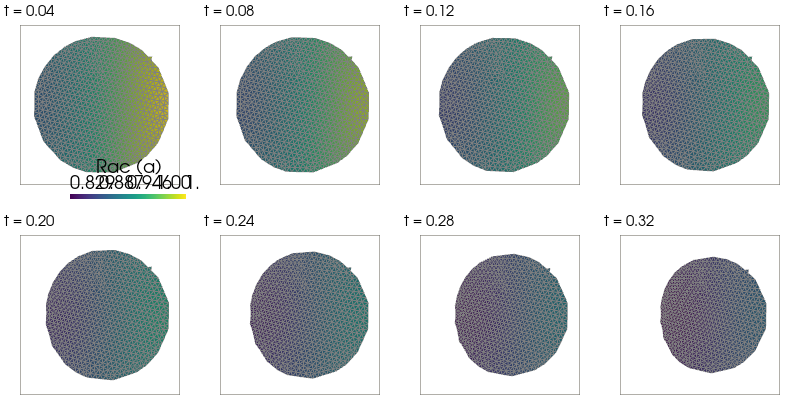
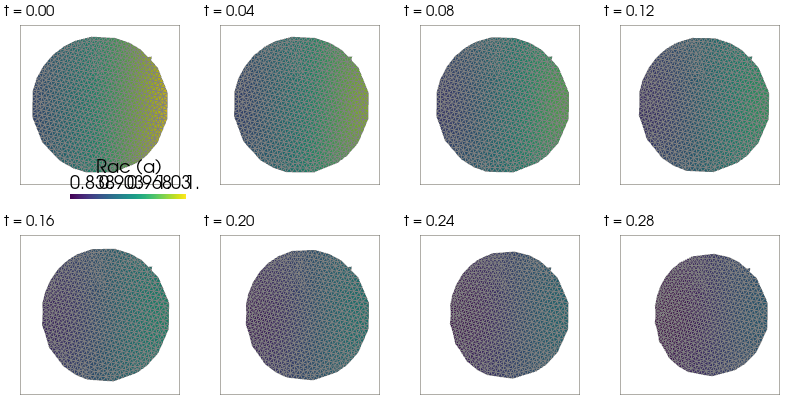
Tile from t=0 (initial cell) and drop the final frame
The tiled sequence now opens on the undeformed cell with its polarized initial Rac
(t=0.00) and ends at t=0.28 — the directed-migration window, before the GTPase
homogenises — instead of starting after the first move.

diff --git a/cross_validation/racrho_moving_boundary.py b/cross_validation/racrho_moving_boundary.py
@@ -96,9 +96,17 @@ def main() -> None:
     rac_space, rac_dofs = problem.unknown.function_space.sub(0).collapse()
     rac_x = rac_space.tabulate_dof_coordinates()[:, 0]
 
+    frames: list[tuple[pyvista.UnstructuredGrid, float]] = []
+
+    def capture(t: float) -> None:
+        field = problem.unknown.sub(0).collapse()
+        field.name = _FIELD
+        frames.append((_function_to_pyvista(field), t))
+
+    capture(0.0)  # the initial (undeformed) cell with its polarized IC, before any motion
+
     print(f"  membrane velocity v = {_MOTION_GAIN}·(a−1)|a−1|·n̂   (protrude where a>1, retract where a<1)\n")
     print(f"  {'t':>5} {'front +x':>10} {'back −x':>10} {'a @front':>9} {'a @back':>9}")
-    frames: list[tuple[pyvista.UnstructuredGrid, float]] = []
     for step in range(_STEPS):
         integrate_discrete_problem(problem, t_final=_INTERVAL, dt_initial=1.0e-4)  # MOL — nonlinear GTPase
         _advance_ale_mesh(cell, velocity, _INTERVAL)  # move boundary by interval·v(a), harmonic interior
@@ -110,16 +118,14 @@ def main() -> None:
             f"{float(rac_values[rac_x > 0.5].mean()):9.3f} {float(rac_values[rac_x < -0.5].mean()):9.3f}"
         )
         if step % _FRAME_EVERY == _FRAME_EVERY - 1:
-            field = problem.unknown.sub(0).collapse()
-            field.name = _FIELD
-            frames.append((_function_to_pyvista(field), t))
+            capture(t)
 
     print("\n  the front (+x, a>1) protruded and the back (−x, a<1) retracted — directed migration up the")
     print("  Rac gradient. The cell membrane moved under a velocity set by its own biochemistry, on a mesh")
     print("  the bulk solve followed each step: the moving boundary, reproduced through the pipeline.")
 
     out = _HERE / "racrho_moving_boundary.png"
-    _write_tiled_image(frames, out)
+    _write_tiled_image(frames[:-1], out)  # t = 0.0 … 0.28 (the initial frame in, the last dropped)
     print(f"\n  wrote {out.name} — the deforming cell mesh coloured by Rac over time")
 
 
